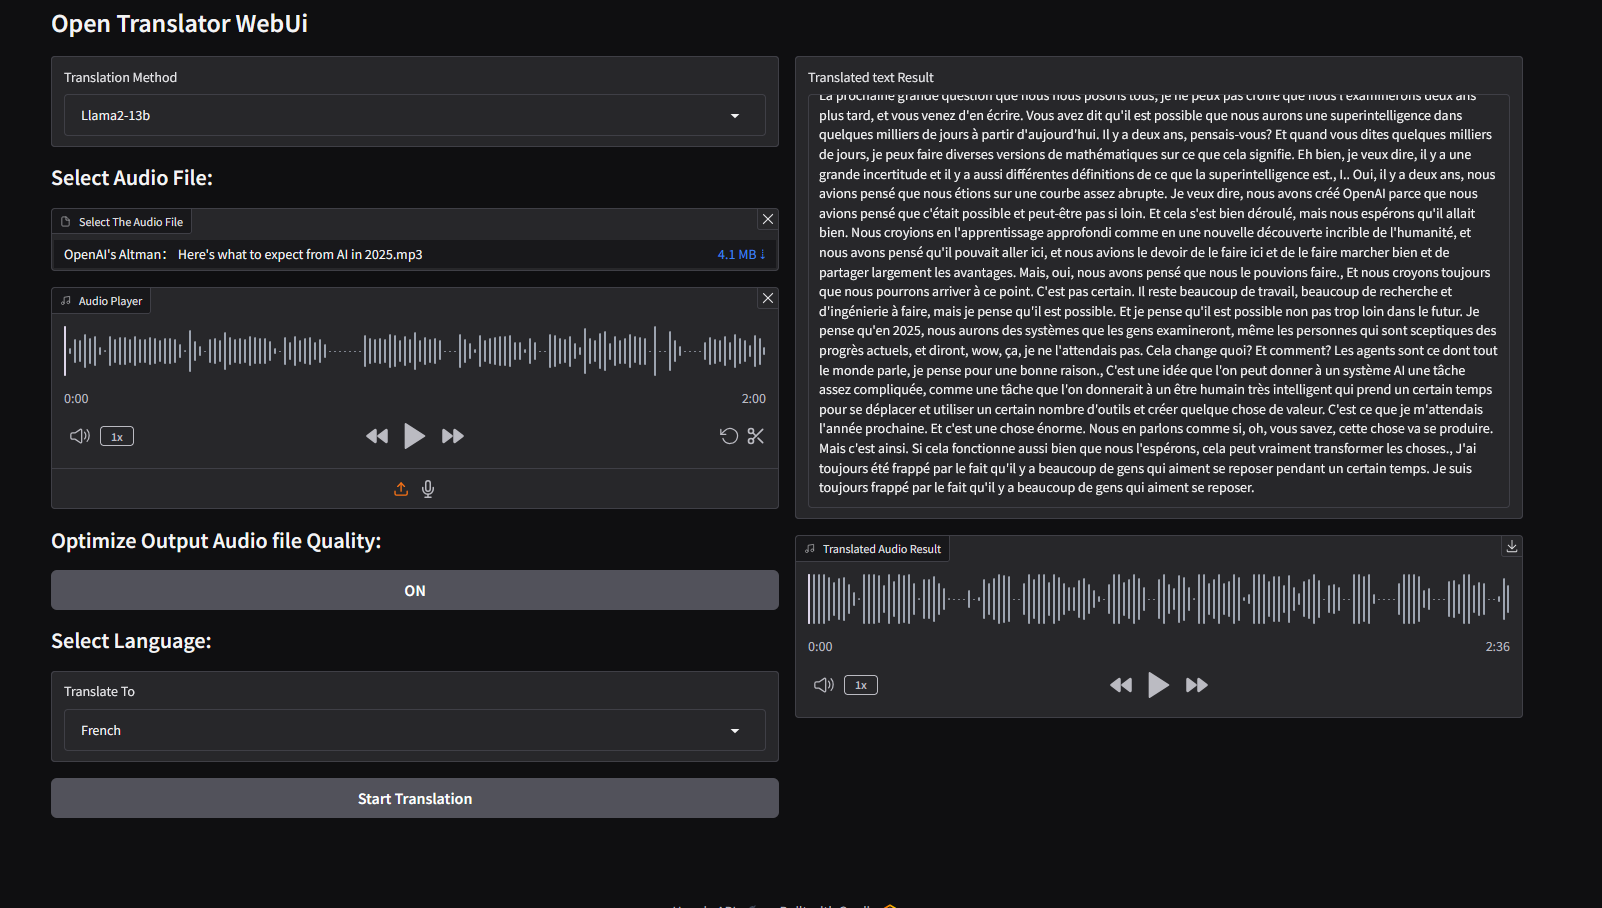
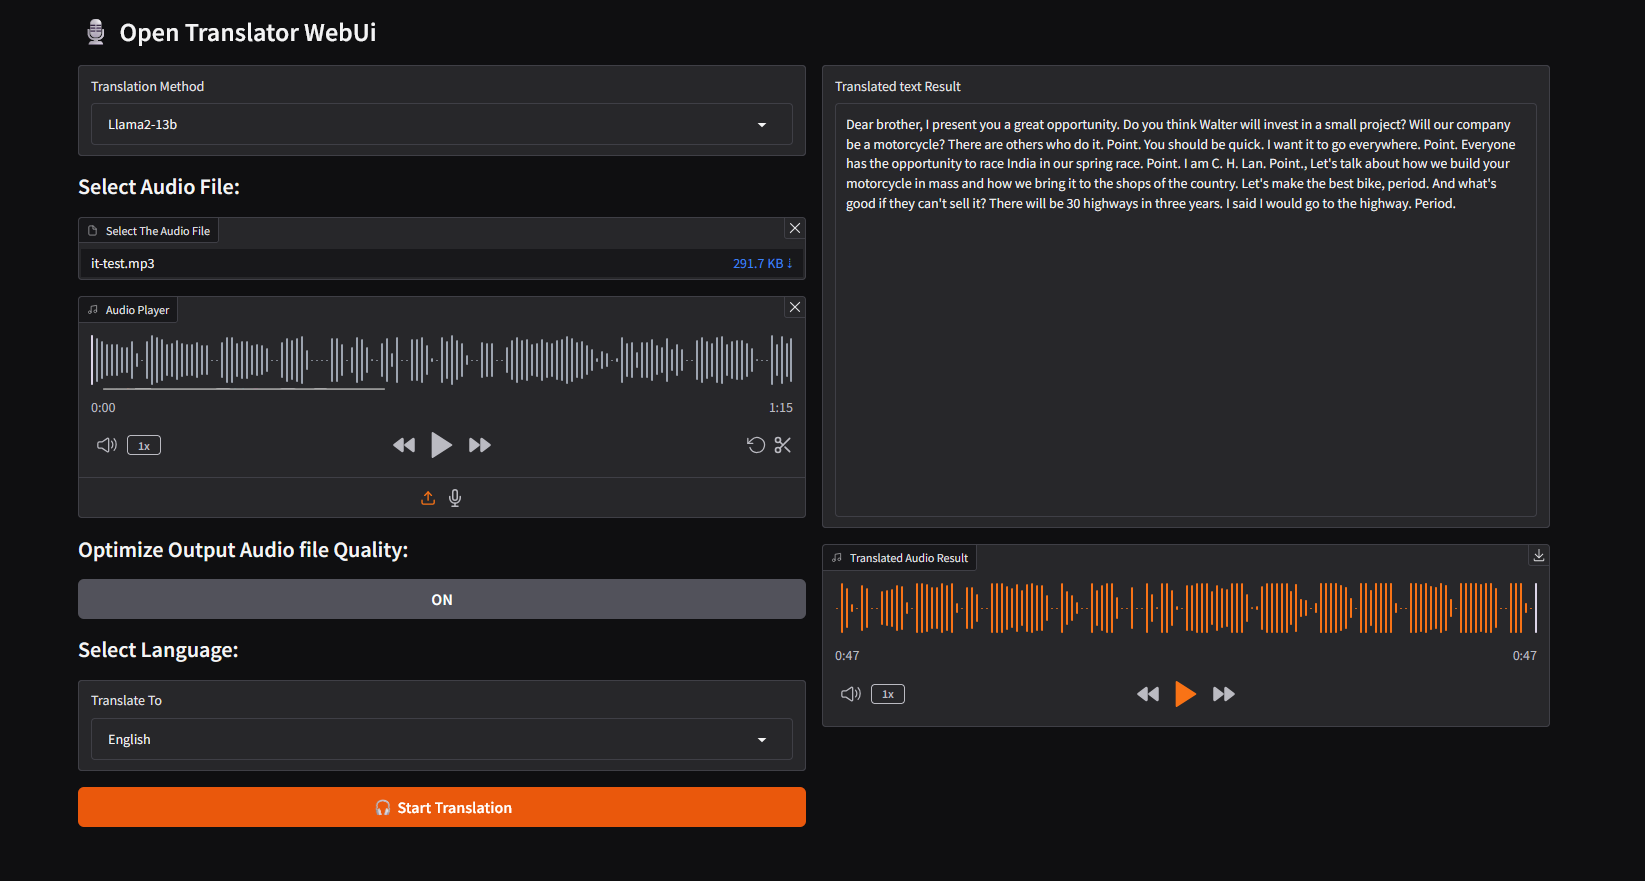
add TTS tool
add text to speech tool
minor web ui update
update readme
added demo video

Changed region(s): [[0.0312, 0.0, 0.9675, 0.9501]]

diff --git a/textToSpeech.py b/textToSpeech.py
@@ -1,0 +1,112 @@
+import gradio as gr
+from TTS.api import TTS
+from datetime import datetime
+import time
+
+class TTSVoiceCloningTool:
+    def __init__(self):
+        self.tts = None
+
+    def load_tts_model(self):
+        """Load the TTS model."""
+        self.tts = TTS("tts_models/multilingual/multi-dataset/xtts_v2")
+
+    def unload_tts_model(self):
+        """Unload the TTS model to free memory."""
+        del self.tts
+        self.tts = None
+
+    def get_supported_languages(self):
+        """Return a list of supported languages."""
+        self.load_tts_model()
+        languages = self.tts.list_languages()
+        self.unload_tts_model()
+        return languages
+
+    def generate_audio(self, text, output_path, target_language, input_path, speed):
+        """Generate audio using TTS."""
+        print("Generating audio...")
+        start_time = time.time()
+
+        self.load_tts_model()
+
+        # Generate audio with adjustable speed
+        self.tts.tts_to_file(
+            text=text,
+            speaker_wav=input_path,
+            language=target_language,
+            file_path=output_path,
+            speed=speed  # Pass the speed parameter
+        )
+
+        end_time = time.time()
+        execution_time = (end_time - start_time) / 60
+        print(f"Audio generated in {execution_time:.2f} minutes")
+
+        self.unload_tts_model()
+        return output_path
+
+def tts_interface(text, reference_audio, language, speed):
+    """Wrapper for the TTS tool to integrate with Gradio."""
+    if not reference_audio:
+        return "Error: Please provide a reference audio file for voice cloning."
+
+    # Generate a timestamped filename
+    timestamp = datetime.now().strftime("%Y-%m-%d_%H-%M-%S")
+    output_path = f"Tts_{timestamp}.mp3"
+
+    tts_tool = TTSVoiceCloningTool()
+    try:
+        result_path = tts_tool.generate_audio(text, output_path, language, reference_audio, speed)
+        return result_path
+    except Exception as e:
+        return f"Error: {str(e)}"
+
+# Gradio GUI
+def main():
+    # Manually specify supported languages
+    supported_languages = ["en", "es", "fr", "de", "it", "pt", "nl", "ru", "zh", "ja"]  # Add or remove languages as necessary
+
+    with gr.Blocks() as demo:
+        gr.Markdown("""
+        # 🎙 TTS Voice Cloning Tool  
+        Convert your text into speech using voice cloning! Provide a reference audio to mimic the voice, select the target language, and adjust the output speed.
+        """)
+
+        with gr.Row():
+            text_input = gr.Textbox(
+                label="Enter Text to Convert to Speech",
+                placeholder="Type or paste the text you want to convert to speech here...",
+                lines=8,
+                max_lines=20
+            )
+
+        with gr.Row():
+            reference_audio_input = gr.Audio(label="Reference Audio File", type="filepath")
+            language_input = gr.Dropdown(
+                label="Target Language",
+                choices=supported_languages,
+                value="en"  # Default to English
+            )
+            speed_input = gr.Slider(
+                label="Output Audio Speed",
+                minimum=0.5,
+                maximum=2.0,
+                value=1.0,  # Default speed
+                step=0.1
+            )
+
+        output_audio = gr.Audio(label="Generated Audio", type="filepath")
+
+        submit_button = gr.Button(value="🎧 Generate Audio", variant="primary")
+
+        submit_button.click(
+            tts_interface,
+            inputs=[text_input, reference_audio_input, language_input, speed_input],
+            outputs=[output_audio]
+        )
+
+    demo.launch(server_name="127.0.0.2", server_port=7862)
+
+if __name__ == "__main__":
+    main()

diff --git a/readme.md b/readme.md
@@ -22,6 +22,10 @@
 - PyTranscriber (shortcut)
 - Exit
 
+## Demo:
+
+[![Open Translator](https://img.youtube.com/vi/GIhtXs8T8FA/0.jpg)](https://www.youtube.com/watch?v=GIhtXs8T8FA)
+
 ## Requirements
 
 Make sure you have the following dependencies installed:
@@ -100,6 +104,8 @@ python WebUI.py
 ![Redesigned (Custom)](Screenshot2.png)
 
 ![Web](Screenshot.png)
+
+![TTS](Screenshot3.png)
 
 ## Audio translation examples:
 - [ar-test.mp3](./testResults/ar-test.mp3)
